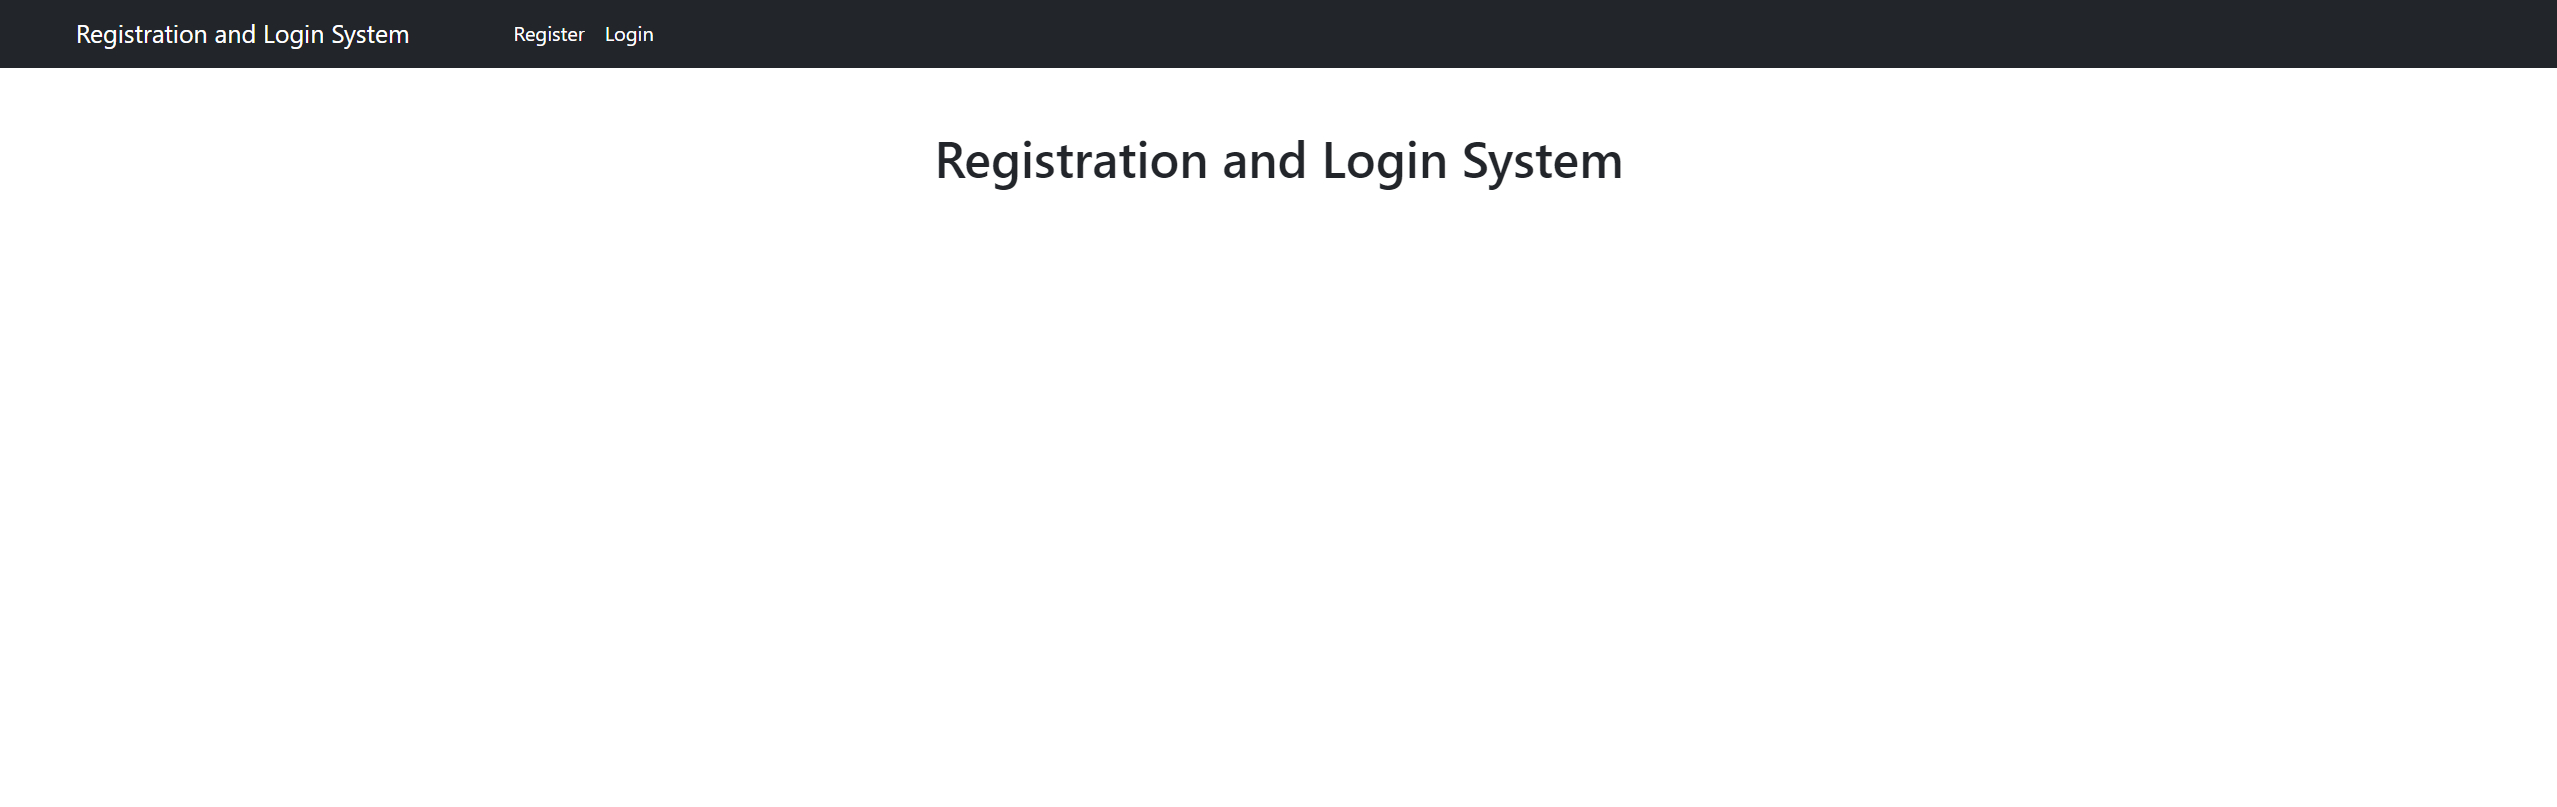
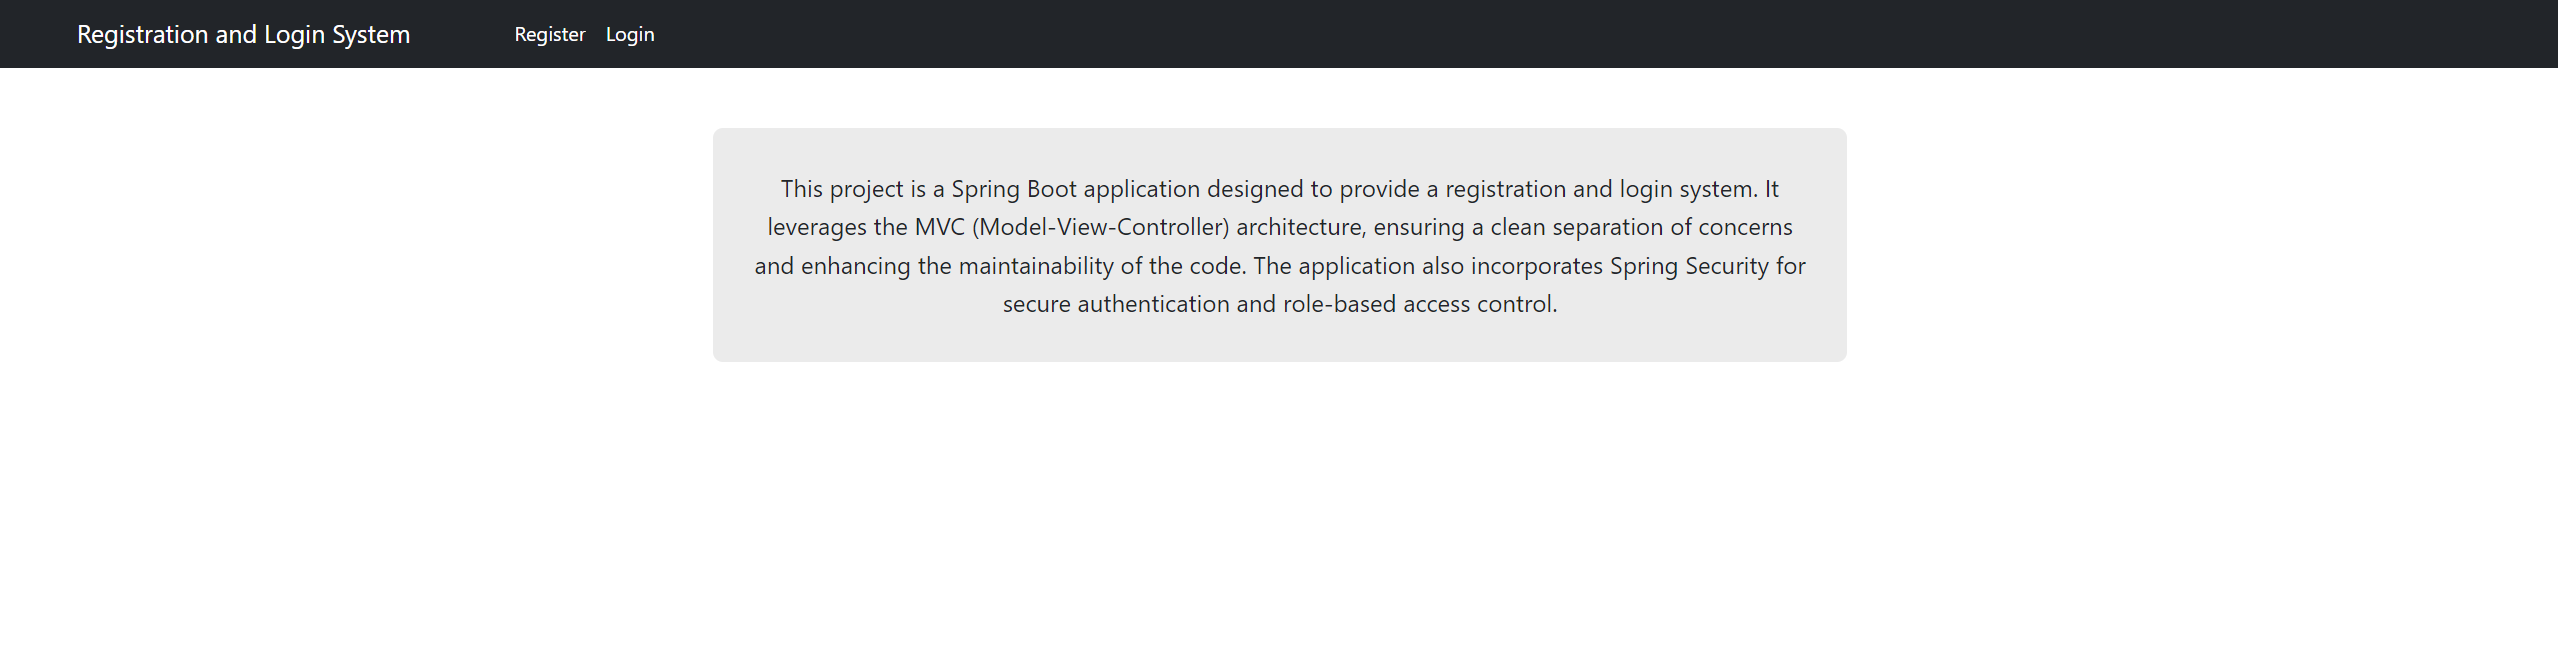
Update index.html, replace image used in README.md

diff --git a/src/main/resources/templates/index.html b/src/main/resources/templates/index.html
@@ -1,8 +1,6 @@
 <!DOCTYPE html>
 <html lang="en"
-      xmlns:th="http://www.thymeleaf.org"
-      xmlns:sec="https://www.thymeleaf.org/thymeleaf-extras-springsecurity6"
->
+      xmlns:th="http://www.thymeleaf.org">
     <head>
         <meta charset="UTF-8">
         <title>Registration and Login System</title>
@@ -10,6 +8,19 @@
               rel="stylesheet"
               integrity="sha384-EVSTQN3/azprG1Anm3QDgpJLIm9Nao0Yz1ztcQTwFspd3yD65VohhpuuCOmLASjC"
               crossorigin="anonymous">
+        <style>
+            .intro-text {
+                padding: 2rem;
+                margin-right: 15%;
+                margin-left: 15%;
+                background-color: #ebebeb;
+                border-radius: 0.5rem;
+                font-size: 1.2rem;
+                line-height: 1.6;
+                margin-top: 3rem;
+                text-align: center;
+            }
+        </style>
     </head>
     <body>
         <nav class="navbar navbar-expand-lg navbar-dark bg-dark">
@@ -26,7 +37,6 @@
                         <li class="nav-item" th:unless="${authenticated}">
                             <a class="nav-link active" aria-current="page" th:href="@{/login}">Login</a>
                         </li>
-<!--                        <li class="nav-item" th:if="${authenticated}" sec:authorize="hasRole('ROLE_ADMIN')">-->
                         <li class="nav-item" th:if="${authenticated}">
                             <a class="nav-link active" aria-current="page" th:href="@{/users}">Users</a>
                         </li>
@@ -35,7 +45,6 @@
                         </li>
                     </ul>
                     <ul class="navbar-nav ms-auto mb-2 mb-lg-0" style="padding-right: 5%;">
-                        <!-- User information section -->
                         <li class="nav-item" th:if="${authenticated}">
                             <span class="navbar-text text-white">
                                 <span th:text="${fullName}"></span>
@@ -45,11 +54,23 @@
                 </div>
             </div>
         </nav>
-        <br /><br />
         <div class="container">
             <div class="row">
-                <h1 class="text-center"> Registration and Login System </h1>
+                <div class="col-12">
+                    <div class="intro-text">
+                        This project is a Spring Boot application designed to provide a registration and login system.
+                        It leverages the MVC (Model-View-Controller) architecture, ensuring a clean separation of concerns
+                        and enhancing the maintainability of the code. The application also incorporates Spring Security
+                        for secure authentication and role-based access control.
+                    </div>
+                </div>
             </div>
         </div>
+        <script src="https://cdn.jsdelivr.net/npm/@popperjs/core@2.9.2/dist/umd/popper.min.js"
+                crossorigin="anonymous">
+        </script>
+        <script src="https://cdn.jsdelivr.net/npm/bootstrap@5.0.2/dist/js/bootstrap.min.js"
+                crossorigin="anonymous">
+        </script>
     </body>
 </html>
